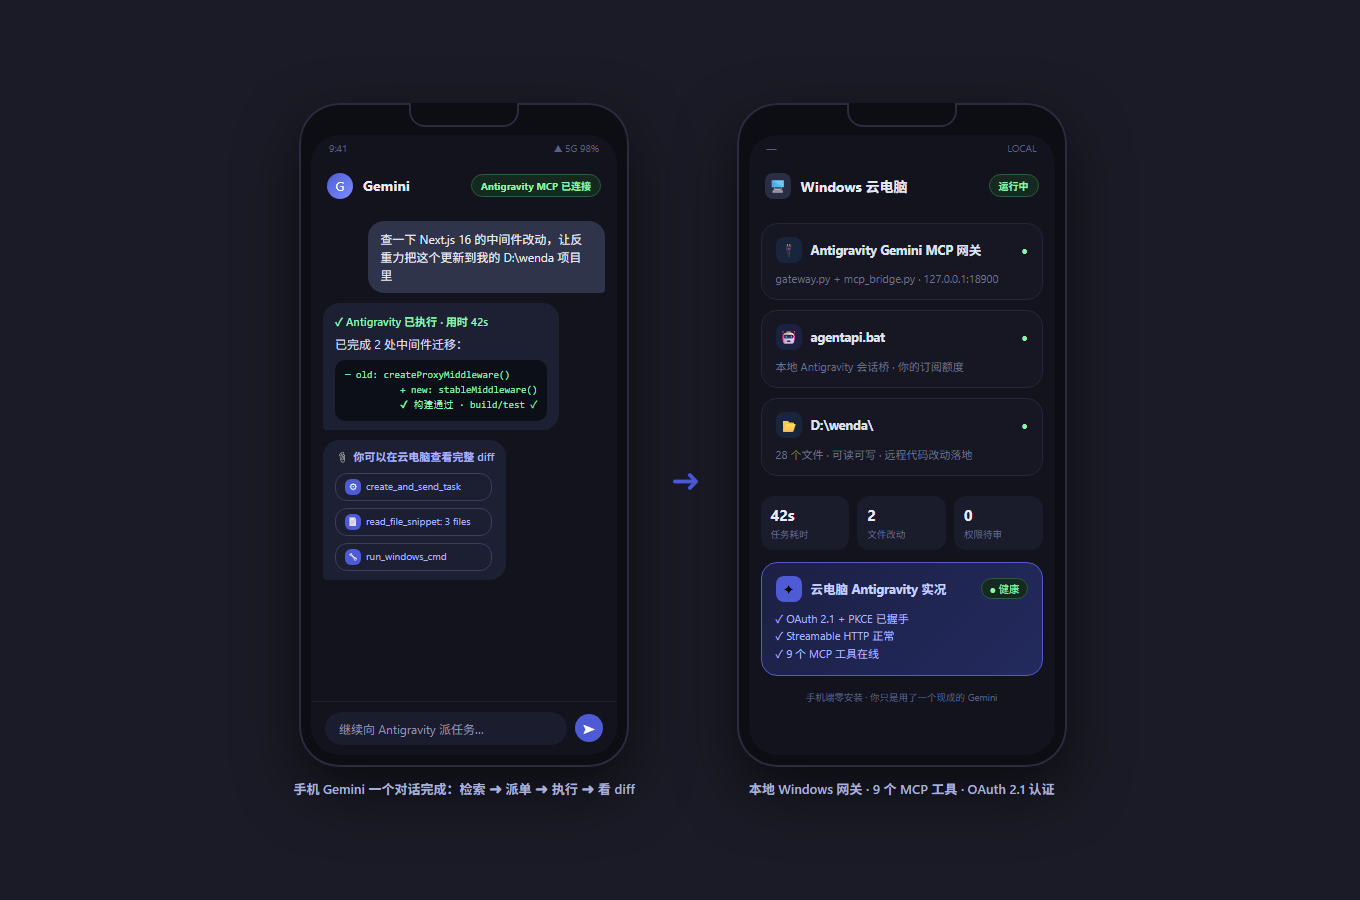
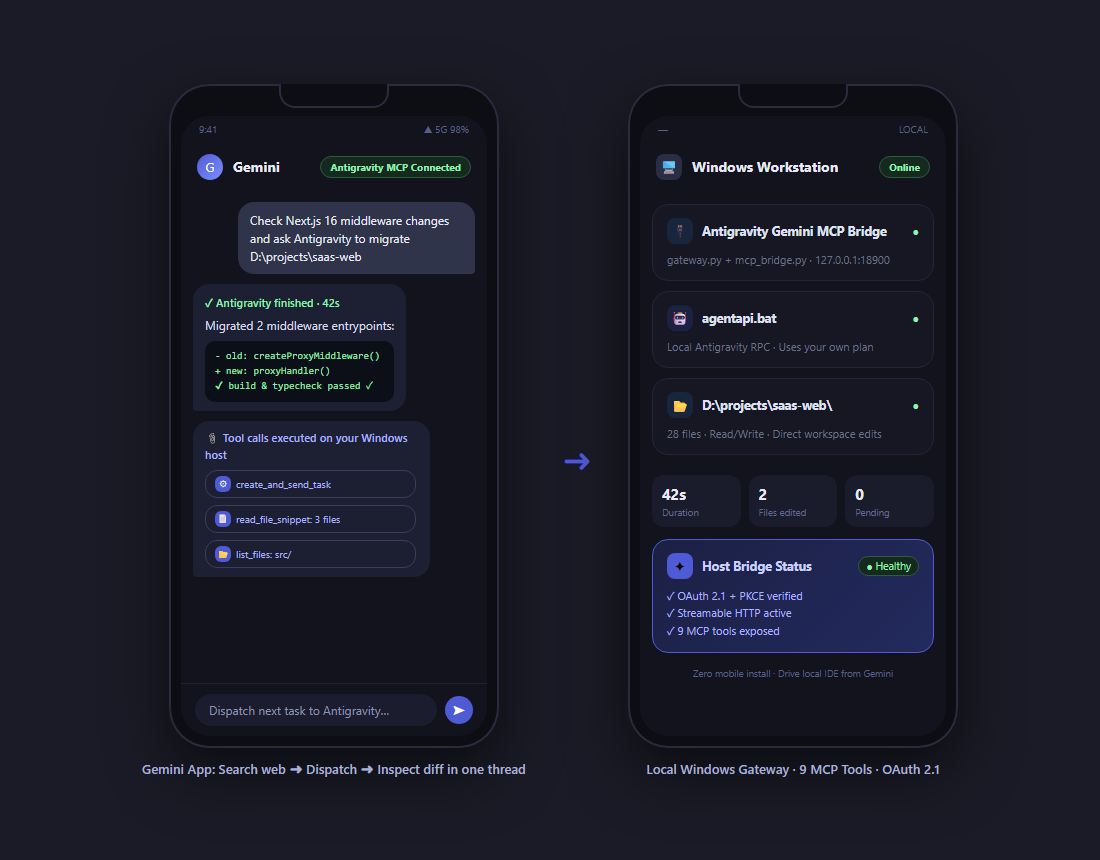
docs: localize gemini-ui mockup to English and align MCP tool names

diff --git a/docs/gemini-ui.html b/docs/gemini-ui.html
@@ -55,31 +55,31 @@
       <div class="topbar">
         <span class="gemhead">G</span>
         <span class="brand">Gemini</span>
-        <span class="plug">Antigravity MCP 已连接</span>
+        <span class="plug">Antigravity MCP Connected</span>
       </div>
       <div class="chat">
-        <div class="bubble user">查一下 Next.js 16 的中间件改动，让反重力把这个更新到我的 D:\wenda 项目里</div>
+        <div class="bubble user">Check Next.js 16 middleware changes and ask Antigravity to migrate D:\projects\saas-web</div>
         <div class="bubble ai">
-          <span style="display:inline-flex;align-items:center;gap:6px;color:#8df3b0;font-size:11px;font-weight:600;margin-bottom:5px">✓ Antigravity 已执行 · 用时 42s</span><br>
-          已完成 2 处中间件迁移：
-          <div class="diff">─ old: createProxyMiddleware()
-          + new: stableMiddleware()
-          ✔ 构建通过 · build/test ✓</div>
+          <span style="display:inline-flex;align-items:center;gap:6px;color:#8df3b0;font-size:11px;font-weight:600;margin-bottom:5px">✓ Antigravity finished · 42s</span><br>
+          Migrated 2 middleware entrypoints:
+          <div class="diff">- old: createProxyMiddleware()
++ new: proxyHandler()
+✔ build &amp; typecheck passed ✓</div>
         </div>
         <div class="bubble ai" style="display:flex;flex-direction:column;gap:4px">
-          <span style="color:#aab2ff;font-size:11px;font-weight:600">📎 你可以在云电脑查看完整 diff</span>
+          <span style="color:#aab2ff;font-size:11px;font-weight:600">📎 Tool calls executed on your Windows host</span>
           <span class="tooltag"><span class="ti">⚙</span>create_and_send_task</span>
           <span class="tooltag"><span class="ti">📄</span>read_file_snippet: 3 files</span>
-          <span class="tooltag"><span class="ti">🔧</span>run_windows_cmd</span>
+          <span class="tooltag"><span class="ti">📂</span>list_files: src/</span>
         </div>
       </div>
       <div class="inputbar">
-        <span class="field">继续向 Antigravity 派任务…</span>
+        <span class="field">Dispatch next task to Antigravity…</span>
         <span class="btn">➤</span>
       </div>
     </div>
   </div>
-  <div class="cap">手机 Gemini 一个对话完成：检索 ➜ 派单 ➜ 执行 ➜ 看 diff</div>
+  <div class="cap">Gemini App: Search web ➜ Dispatch ➜ Inspect diff in one thread</div>
 </div>
 
 <div class="arrow">➜</div>
@@ -91,36 +91,36 @@
       <div class="status"><span>—</span><span>LOCAL</span></div>
       <div class="topbar">
         <span class="icn" style="width:26px;height:26px;border-radius:8px;background:#2a2e45;display:flex;align-items:center;justify-content:center;font-size:13px">🖥</span>
-        <span class="brand">Windows 云电脑</span>
-        <span class="plug" style="color:#8df3b0">运行中</span>
+        <span class="brand">Windows Workstation</span>
+        <span class="plug" style="color:#8df3b0">Online</span>
       </div>
       <div class="host">
         <div class="hcard">
-          <div class="h"><span class="icn" style="background:#17253d">🔌</span><span class="tt">Antigravity Gemini MCP 网关</span><span class="st">●</span></div>
+          <div class="h"><span class="icn" style="background:#17253d">🔌</span><span class="tt">Antigravity Gemini MCP Bridge</span><span class="st">●</span></div>
           <div style="color:#6b7288;font-size:11px">gateway.py + mcp_bridge.py · 127.0.0.1:18900</div>
         </div>
         <div class="hcard">
           <div class="h"><span class="icn" style="background:#1b2140">🤖</span><span class="tt">agentapi.bat</span><span class="st">●</span></div>
-          <div style="color:#6b7288;font-size:11px">本地 Antigravity 会话桥 · 你的订阅额度</div>
+          <div style="color:#6b7288;font-size:11px">Local Antigravity RPC · Uses your own plan</div>
         </div>
         <div class="hcard">
-          <div class="h"><span class="icn" style="background:#17253d">📂</span><span class="tt"><span style="color:#dfe2f5">D:\wenda\</span></span><span class="st">●</span></div>
-          <div style="color:#6b7288;font-size:11px">28 个文件 · 可读可写 · 远程代码改动落地</div>
+          <div class="h"><span class="icn" style="background:#17253d">📂</span><span class="tt"><span style="color:#dfe2f5">D:\projects\saas-web\</span></span><span class="st">●</span></div>
+          <div style="color:#6b7288;font-size:11px">28 files · Read/Write · Direct workspace edits</div>
         </div>
         <div class="kpis">
-          <div class="kp"><div class="n">42s</div><div class="l">任务耗时</div></div>
-          <div class="kp"><div class="n">2</div><div class="l">文件改动</div></div>
-          <div class="kp"><div class="n">0</div><div class="l">权限待审</div></div>
+          <div class="kp"><div class="n">42s</div><div class="l">Duration</div></div>
+          <div class="kp"><div class="n">2</div><div class="l">Files edited</div></div>
+          <div class="kp"><div class="n">0</div><div class="l">Pending</div></div>
         </div>
         <div class="hcard" style="background:linear-gradient(135deg,#1c2044,#232a5e);border:1px solid #4f5bd5">
-          <div class="h"><span class="icn" style="background:#4f5bd5">✦</span><span class="tt" style="color:#c8d0ff">云电脑 Antigravity 实况</span><span class="st2">● 健康</span></div>
-          <div style="color:#aab2ff;font-size:11px;line-height:1.6">✓ OAuth 2.1 + PKCE 已握手<br>✓ Streamable HTTP 正常<br>✓ 9 个 MCP 工具在线</div>
+          <div class="h"><span class="icn" style="background:#4f5bd5">✦</span><span class="tt" style="color:#c8d0ff">Host Bridge Status</span><span class="st2">● Healthy</span></div>
+          <div style="color:#aab2ff;font-size:11px;line-height:1.6">✓ OAuth 2.1 + PKCE verified<br>✓ Streamable HTTP active<br>✓ 9 MCP tools exposed</div>
         </div>
-        <div class="footer">手机端零安装 · 你只是用了一个现成的 Gemini</div>
+        <div class="footer">Zero mobile install · Drive local IDE from Gemini</div>
       </div>
     </div>
   </div>
-  <div class="cap">本地 Windows 网关 · 9 个 MCP 工具 · OAuth 2.1 认证</div>
+  <div class="cap">Local Windows Gateway · 9 MCP Tools · OAuth 2.1</div>
 </div>
 
 </body>
